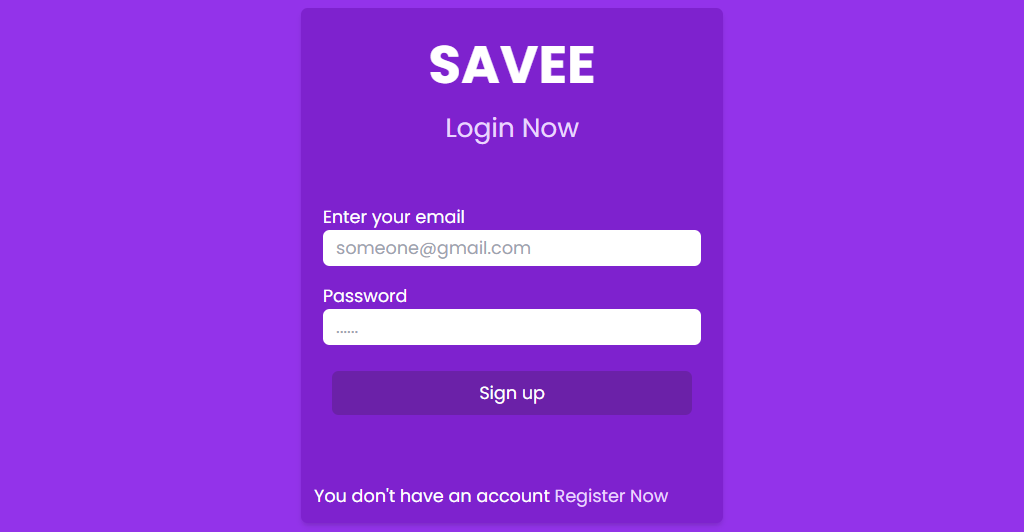
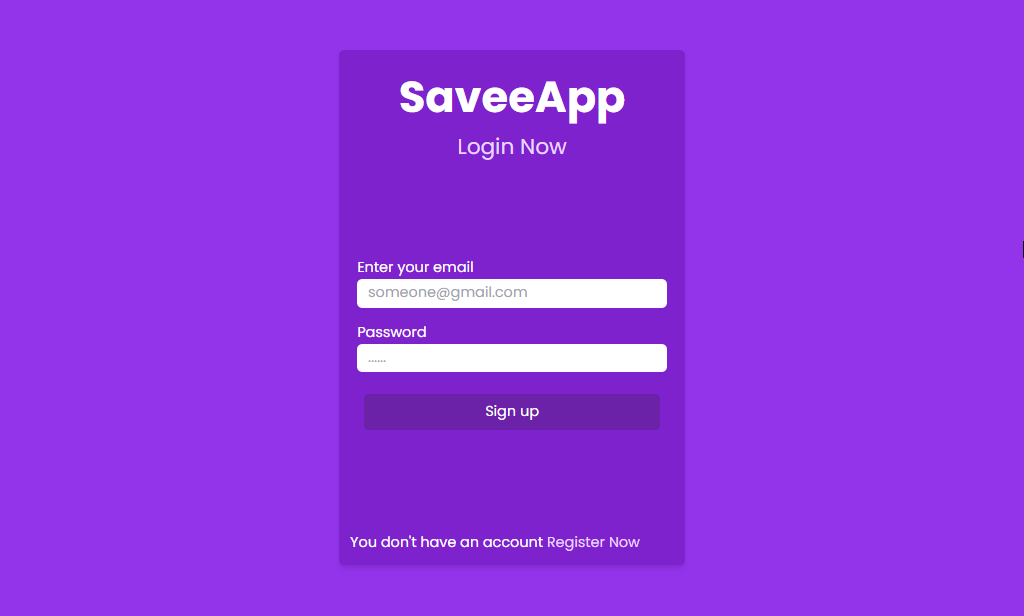
Update Files

Changed region(s): [[0.2812, 0.0, 0.7188, 0.9925]]

diff --git a/src/Pages/Login.jsx b/src/Pages/Login.jsx
@@ -24,7 +24,7 @@ function Login() {
     <div className='flex items-center justify-center w-full h-screen text-white bg-purple-600 font-body'>
         <div className='flex flex-col p-3 bg-purple-700 rounded-md shadow-md h-5/6 w-96 '>
             <div className='p-4 text-5xl font-bold text-center'>
-                SAVEE
+                SaveeApp
             </div>
             <div className='flex flex-col justify-between h-full '>
                 <h2 className='text-2xl text-center text-purple-200'>
